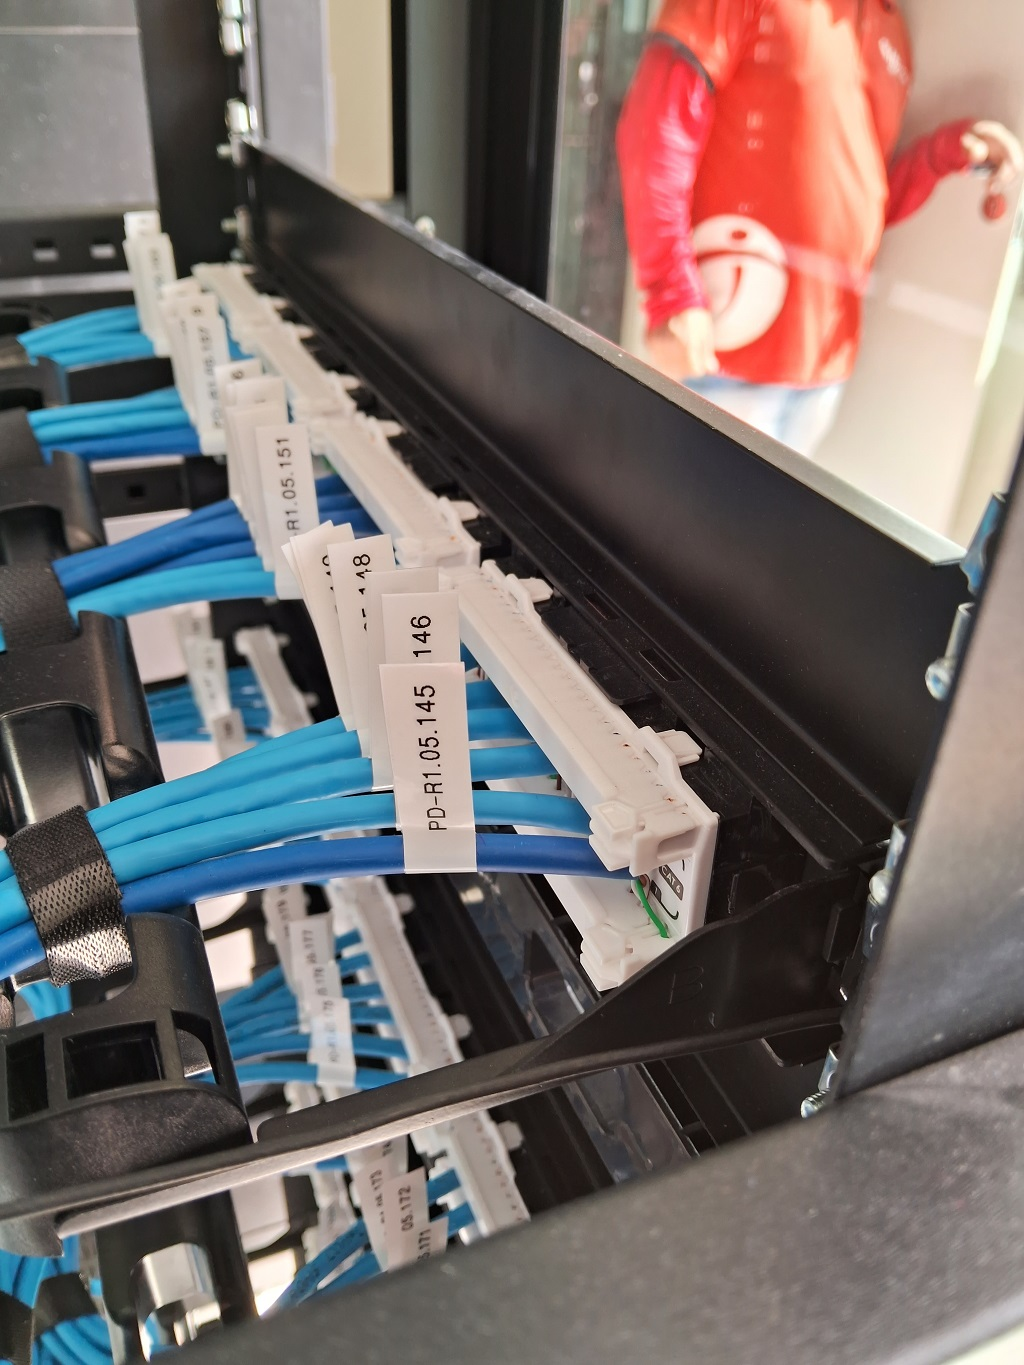
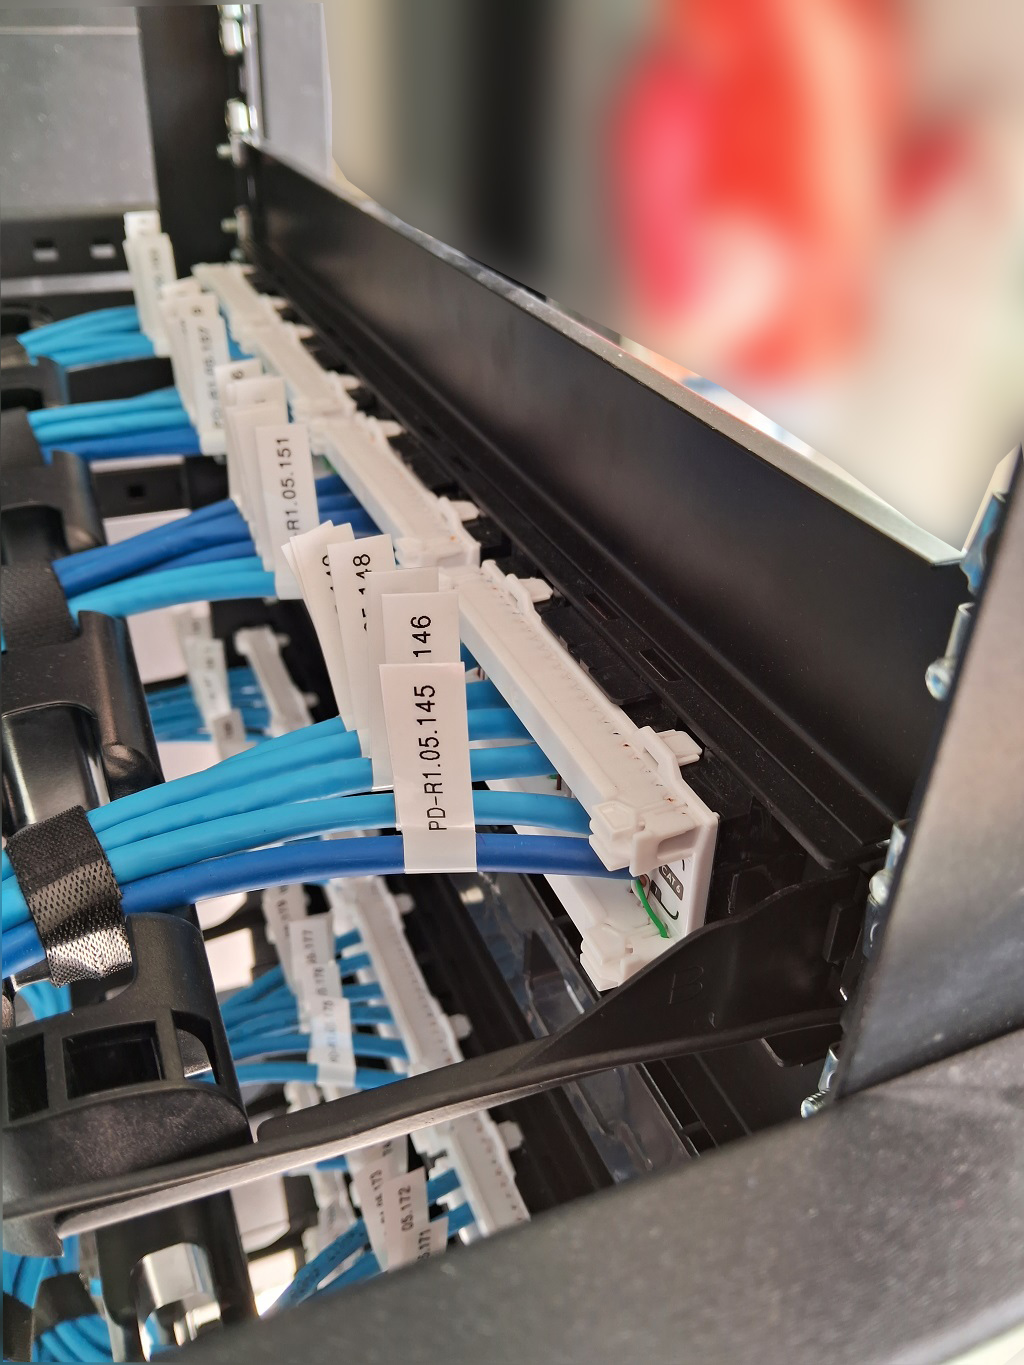
modelagem arquivos

diff --git a/index.html b/index.html
@@ -34,7 +34,11 @@
         aria-label="Tenth navbar example"
       >
         <div class="container-fluid">
-            <img src="img/logomarca.png" style="width: 70px;height: 50px;">
+           <div class="d-flex flex-column align-items-center">
+    <img src="img/logomarca.png" style="width: 70px; height: 50px;">
+    <!-- m-0 remove a margem padrão do parágrafo para não dar muito espaço -->
+    <p class="text-white m-0">Alves Tecnologia</p>
+  </div>
           <button
             class="navbar-toggler rounded-0 border-0 text-white"
             type="button"
@@ -59,7 +63,6 @@
               </li>
               <li class="nav-item"><a class="nav-link" href="#servicos">especialidades</a></li>
               <li class="nav-item"><a class="nav-link" href="#sobre">Por que nós?</a></li>
-              <li class="nav-item"><a class="nav-link" href="#contato">Contato</a></li>
               <!--<li class="nav-item dropdown">
                 <a
                   class="nav-link dropdown-toggle"
@@ -304,10 +307,11 @@
  </section>
 
 
-  <!-- Botão que dispara o Modal -->
-  <button type="button" class="btn btn-light px-4 py-2 mt-3 rounded-0 d-block mx-auto" data-bs-toggle="modal" data-bs-target="#galeriaModal">
-    Abrir Galeria de Trabalhos
-  </button>
+
+
+<button type="button" class="btn btn-outline-light btn-lg px-5 py-3 mt-3 rounded-0 d-block mx-auto fw-bold fs-5 btn-led-branco-vazado" data-bs-toggle="modal" data-bs-target="#galeriaModal">
+  Abrir Galeria de Trabalhos
+</button>
 
  <!-- Sobre / Por que escolher a Alves Tecnologia -->
   <div class="container mt-5">
@@ -530,15 +534,20 @@
             <!-- Coluna 1: Sobre a Empresa -->
             <div class="col-md-4 col-lg-4 col-xl-4 mx-auto mt-3">
                 <h5 class="text-uppercase mb-4 font-weight-bold text-success">Alves Tecnologia</h5>
-                <p>Inovação, desenvolvimento e soluções digitais sob medida para o seu negócio evoluir.</p>
+                <p>Soluções inteligentes em T.I. sob medida.</p>
             </div>
 
             <!-- Coluna 2: Links Úteis -->
             <div class="col-md-2 col-lg-2 col-xl-2 mx-auto mt-3">
                 <h5 class="text-uppercase mb-4 font-weight-bold text-success">Links</h5>
-                <p><a href="#" class="text-light text-decoration-none hover-link">Home</a></p>
-                <p><a href="#" class="text-light text-decoration-none hover-link">Serviços</a></p>
-                <p><a href="#" class="text-light text-decoration-none hover-link">Portfólio</a></p>
+                <p><a href="#" class="text-light text-decoration-none hover-link">Inicio</a></p>
+                <p><a href="#servicos" class="text-light text-decoration-none hover-link">Especialidades</a></p>
+                <p><a href="#sobre" class="text-light text-decoration-none hover-link">Por que nós?</a></p>
+           
+          
+
+
+                 
             </div>
 
             <!-- Coluna 3: Contato -->
@@ -555,7 +564,7 @@
         <!-- Linha de Direitos Autorais e Redes Sociais -->
         <div class="row align-items-center">
             <div class="col-md-7 col-lg-8 text-center text-md-start">
-                <p class="mb-0">
+                <p class="mb-0" style="font-size: 10px;">
                     &copy; <span id="anoAtual"></span> <strong>Alves Tecnologia</strong>. Todos os direitos reservados.
                 </p>
             </div>